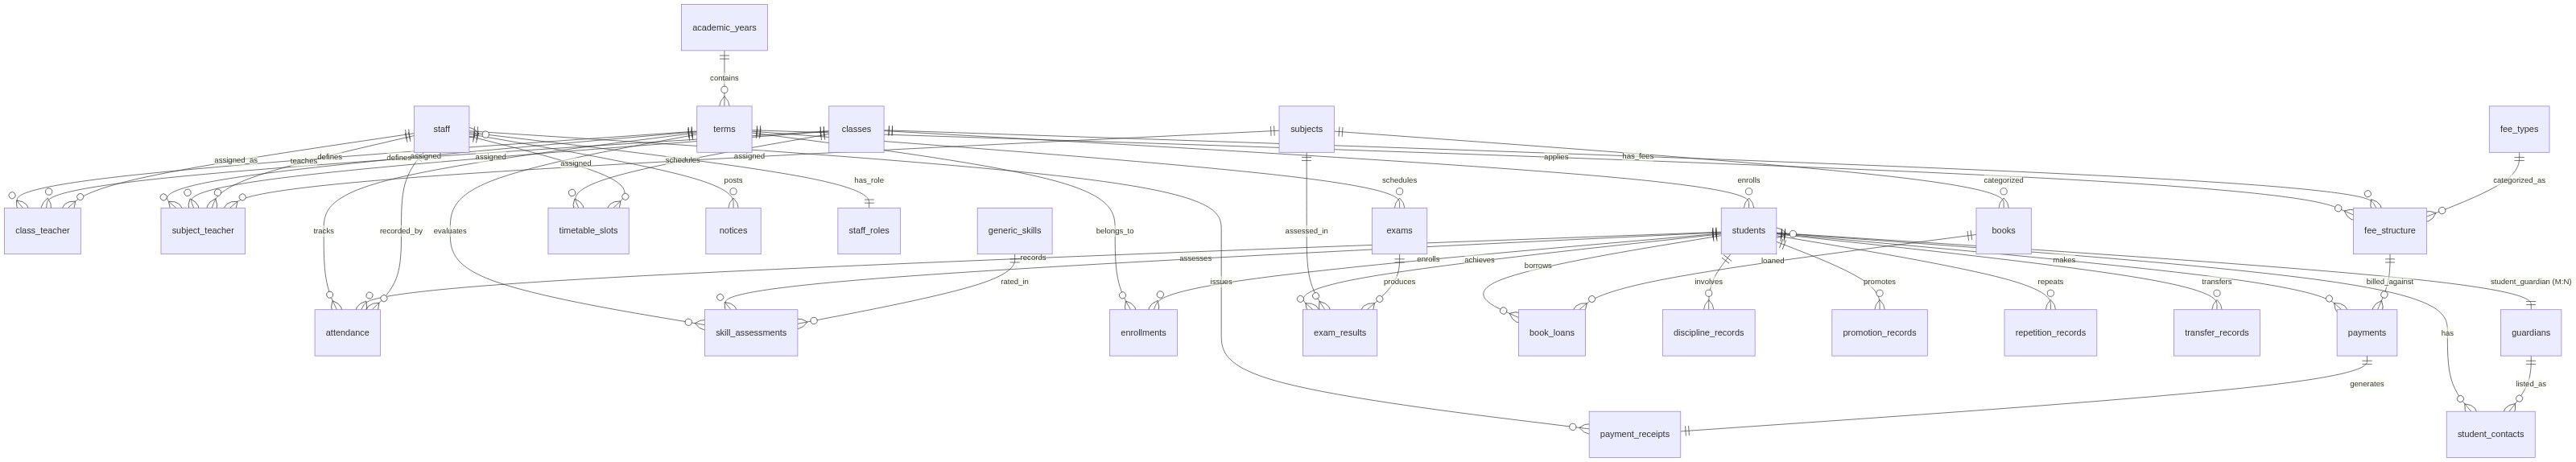
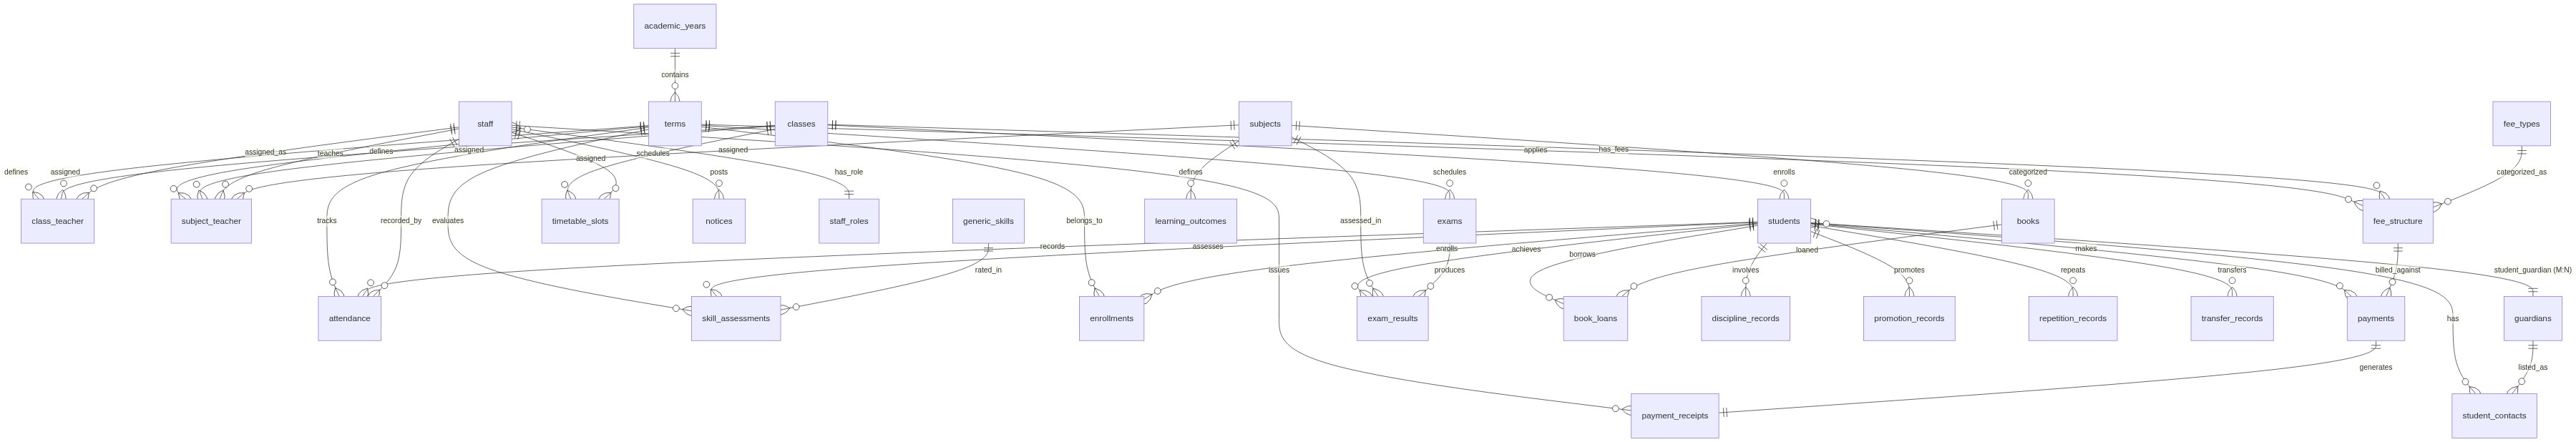
Add learning_outcomes entity to EER diagram
- Added learning_outcomes (30th entity) to match requirements.txt
- CBC themes/topics per subject with competencies & assessment criteria
- Updated notebook, markdown, entity count, relationship matrix, and
  entity status map
- Re-rendered ERD PNG with new entity and relationship

diff --git a/docs/erd-draft.md b/docs/erd-draft.md
@@ -51,8 +51,9 @@
 | 27 | `repetition_records` | Student repeating a class | **Planned** |
 | 28 | `transfer_records` | Student transfers in/out | **Planned** |
 | 29 | `timetable_slots` | Class-teacher-subject-period schedule | **Planned** |
+| 30 | `learning_outcomes` | CBC themes/topics per subject, with competencies & assessment criteria | **Planned** |
 
-**Total: 29 entities** (18 existing, 11 planned)
+**Total: 30 entities** (18 existing, 12 planned)
 
 ---
 
@@ -184,6 +185,8 @@ erDiagram
     books ||--o{ book_loans : loaned
 
     generic_skills ||--o{ skill_assessments : rated_in
+
+    subjects ||--o{ learning_outcomes : defines
 ```
 
 ---
@@ -217,6 +220,7 @@ erDiagram
 | student | repeats | repetition_record | 1:N | Mary repeated S1 in 2025 |
 | student | transfers | transfer_record | 1:N | Peter transferred from School X |
 | class | schedules | timetable_slot | 1:N | S1 East has 40 weekly timetable slots |
+| subject | defines | learning_outcome | 1:N | Math has 8 themes (Algebra, Geometry, Statistics, ...) |
 
 ---
 
@@ -253,6 +257,7 @@ notices           → Posted as needed
 enrollments       → Recorded per academic year
 discipline_records→ Recorded per incident
 skill_assessments → Recorded per term
+learning_outcomes → Defined per subject, updated with curriculum
 timetable_slots   → Created per term
 promotion_records → Recorded year-end
 repetition_records→ Recorded year-end
@@ -302,3 +307,4 @@ transfer_records  → Recorded per transfer
 | `repetition_records` | 📋 | No SQL table yet |
 | `transfer_records` | 📋 | No SQL table yet |
 | `timetable_slots` | 📋 | No SQL table yet |
+| `learning_outcomes` | 📋 | CBC themes/topics per subject with competencies |